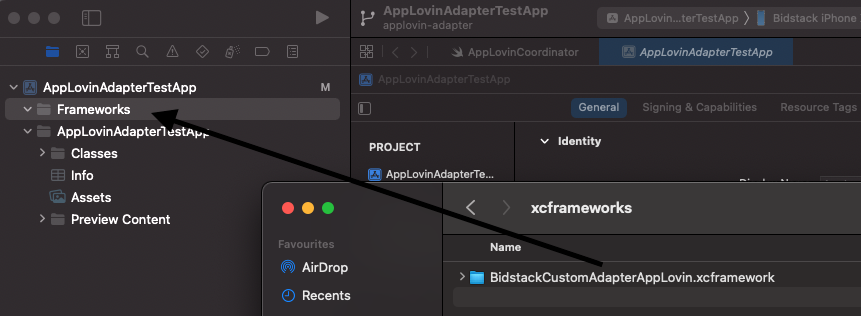
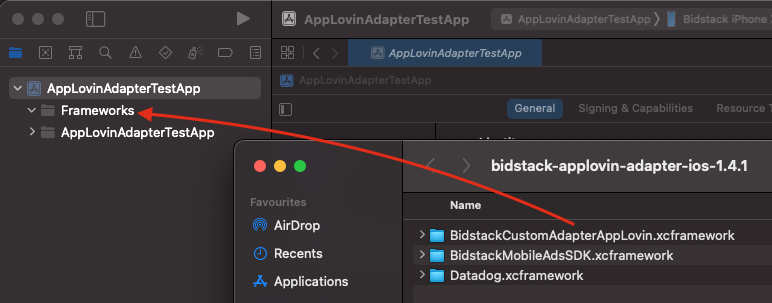
integration steps fixed, new images added

diff --git a/README.md b/README.md
@@ -14,7 +14,7 @@ The adapter supports iOS 11 and up and AppLovinSDK 11.3.0 and up.
 
 Required: iOS version 11+
 
-Required: If you're planning to integrate adapter manually, then you need to download **BidstackCustomAdapterAppLovin.xcframework** and **BidstackMobileAdsSDK.xcframework** provided by Bidstack.
+Required: If you're planning to integrate adapter manually, then you need to download **BidstackCustomAdapterAppLovin.xcframework**, **BidstackMobileAdsSDK.xcframework** and **Datadog.xcframework** provided by Bidstack.
 
 
 Before integrating the adapter you will need to set up the Bidstack network on your AppLovin account as documented [here](https://dash.applovin.com/documentation/mediation/ios/mediation-setup/custom-sdk) and integrate the AppLovin SDK as documented [here](https://dash.applovin.com/documentation/mediation/ios/getting-started/integration).
@@ -42,9 +42,9 @@ There are two ways how you can integrate **BidstackCustomAdapterAppLovin** into 
 ### 1. Using cocoapods
 
 Add to your podfile:
-`pod 'BidstackCustomAdapterAppLovin', '~> 1.4.0'`
+`pod 'BidstackCustomAdapterAppLovin', '~> 1.4.1'`
 
-That's it! Now you can run `pod install` from your Terminal and **BidstackCustomAdapterAppLovin** and **BidstackMobileAdsSDK** will be installed automatically. No additional steps needed.
+That's it! Now you can run `pod install` from your Terminal. **BidstackCustomAdapterAppLovin** and **BidstackMobileAdsSDK**, and **Datadog.xcframework** will be installed automatically. No additional steps needed.
 
 
 ### 2. Add xcframeworks manually
@@ -54,29 +54,27 @@ That's it! Now you can run `pod install` from your Terminal and **BidstackCustom
 First of all, double check if your Xcode project contains a **Frameworks** folder in project navigator. If it doesn’t, you have to create one. The **Frameworks** folder is not added by default in latest Xcode and it’s a good practice to keep your frameworks there.
 
 
-#### 2. Add **BidstackCustomAdapterAppLovin.xcframework** and **BidstackMobileAdsSDK.xcframework** to Frameworks folder
+#### 2. Add **BidstackCustomAdapterAppLovin.xcframework**, **BidstackMobileAdsSDK.xcframework** and **Datadog.xcframework** to Frameworks folder
 
 Drag and drop both frameworks from Finder into the **Frameworks** folder. Make sure that the destination of drag is just under the **Frameworks** folder:
 
 <img src="images/bcad-1.png" width="700">
 
-<img src="images/bcad-2.png" width="700">
-
 Then, make sure the following options are selected for adding files. Both “Copy items if needed” and “Create groups” should be checked and selected. Click Finish.
 
 <img src="images/bcad-3.png" width="500">
 
-#### 3. Embed **BidstackCustomAdapterAppLovin.xcframework** and **BidstackMobileAdsSDK.xcframework** in project's target
+#### 3. Embed **BidstackCustomAdapterAppLovin.xcframework**, **BidstackMobileAdsSDK.xcframework** and **Datadog.xcframework** in project's target
 
 In order to make sure that the framework will get copied to your app’s binary, follow these steps:
 
 1. Navigate to your project settings by clicking on it in the project navigator. 
 2. Make sure that your target is selected and General tab is open.
-3. Select “Embed & Sign” for your newly added **BidstackCustomAdapterAppLovin.xcframework** and **BidstackMobileAdsSDK.xcframework**
+3. Select “Embed & Sign” for your newly added **BidstackCustomAdapterAppLovin.xcframework**, **BidstackMobileAdsSDK.xcframework** and **Datadog.xcframework**
 
 ![](images/bcad-4.png)
 
-#### 4. Link **BidstackCustomAdapterAppLovin.xcframework** and **BidstackMobileAdsSDK.xcframework** with your project
+#### 4. Link **BidstackCustomAdapterAppLovin.xcframework**, **BidstackMobileAdsSDK.xcframework** and **Datadog.xcframework** with your project
 
 Navigate to the Build Phases tab, disclose the “Link Binary With Libraries” list and make sure your framework is included in the list. It should already be included by default after following the steps above, however in case it’s not – click on the + button and add it.
 
@@ -85,12 +83,10 @@ Then make sure both framework Status is **Required**
 ![](images/bcad-5.png)
 
 
-### The **BidstackCustomAdapterAppLovin.xcframework** and **BidstackMobileAdsSDK.xcframework** is now fully added and integrated with your Xcode project. No additional setup is needed.
+The **BidstackCustomAdapterAppLovin.xcframework** and **BidstackMobileAdsSDK.xcframework** is now fully added and integrated with your Xcode project. No additional setup is needed.
 
 ## Supported versions
 
 Supported **AppLovinSDK** versions: 11.3.0 and up
 
 Supported **iOS** versions: version 11+
-
-
